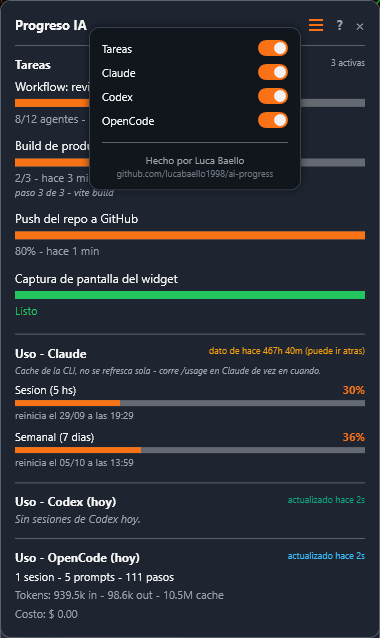
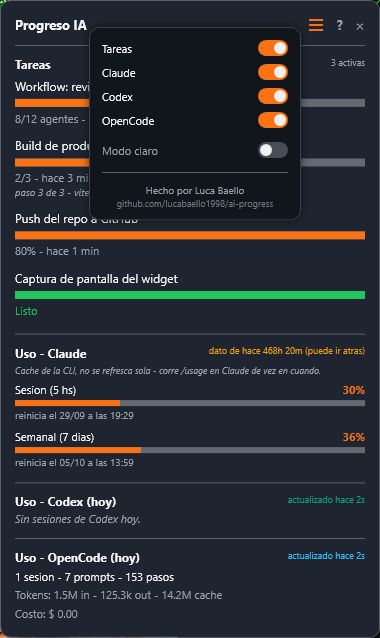
Widget: switch Modo claro (tema claro/oscuro) + seccion Historia en el README

diff --git a/README.md b/README.md
@@ -15,9 +15,9 @@ Widget flotante para Windows que muestra, siempre visible arriba a la derecha:
    archivo JSON con métricas).
 
 El **menú hamburguesa** (arriba a la derecha) abre un **popup flotante** — fondo más oscuro, no
-empuja el contenido — con *switchs* para prender/apagar cada sección; la elección se guarda en
-`config.json`. El botón **?** muestra la explicación de cómo funciona dentro del propio widget, y
-al pie del popup está la leyenda del autor.
+empuja el contenido — con *switchs* para prender/apagar cada sección y el switch **Modo claro**
+(tema claro/oscuro); todo se guarda en `config.json`. El botón **?** muestra la explicación de cómo
+funciona dentro del propio widget, y al pie del popup está la leyenda del autor.
 
 ![screenshot](docs/screenshot.png)
 
@@ -28,6 +28,25 @@ Popup del menú (switchs por sección + leyenda):
 Con la ayuda abierta (botón **?**):
 
 ![screenshot con la ayuda abierta](docs/screenshot-ayuda.png)
+
+Modo claro (switch **Modo claro** del menú):
+
+![modo claro](docs/screenshot-claro.png)
+
+## Historia
+
+`ai-progress` es la evolución de un proyecto personal anterior: **`claude-progress`**, un widget
+mínimo que armé para mirar el uso de Claude Code (ventana de 5 h y límite semanal) mientras corría
+workflows largos de agentes. Nunca fue un repo: vivió siempre en una carpeta local, como
+herramienta de trabajo.
+
+Cuando el día a día se repartió entre más herramientas — Codex, OpenCode, Claude, workflows
+multiagente — ese widget se quedó corto: solo miraba a Claude y no sabía nada de las tareas en
+curso. `ai-progress` es la generalización: un monitor flotante para todas las herramientas de IA,
+con progreso real de tareas, uso por proveedor, menú de secciones y tema claro/oscuro.
+
+La idea de fondo no cambió: pegarle un vistazo y saber qué está pasando, sin abrir una terminal ni
+cambiar de ventana.
 
 ## Requisitos
 
@@ -88,6 +107,7 @@ propio widget lo reescribe cuando usás el menú hamburguesa o el botón **?**.
   "statusPaths": ["status.json"],
   "sections": { "tasks": true, "claude": true, "codex": true, "opencode": true },
   "showHelp": false,
+  "theme": "dark",
   "opencodeCliPath": null,
   "opencodeRefreshSeconds": 60,
   "codexRefreshSeconds": 60,
@@ -132,4 +152,5 @@ Ejemplo de configuración (para cualquier CLI que exponga stats en JSON):
   tiempo total transcurrido (una pausa larga no lo infla).
 - El % de Claude es un cache de la CLI: puede quedar atrás de lo que muestra el chat (se indica la
   edad del dato). Codex se recalcula cada 60 s desde los logs; si no hubo sesiones hoy, lo dice.
-- Basado en el widget anterior para Claude Code (`claude-progress`), generalizado a IA en general.
+- Viene del widget personal para Claude Code `claude-progress`, generalizado a IA en general
+  (ver **Historia**).
